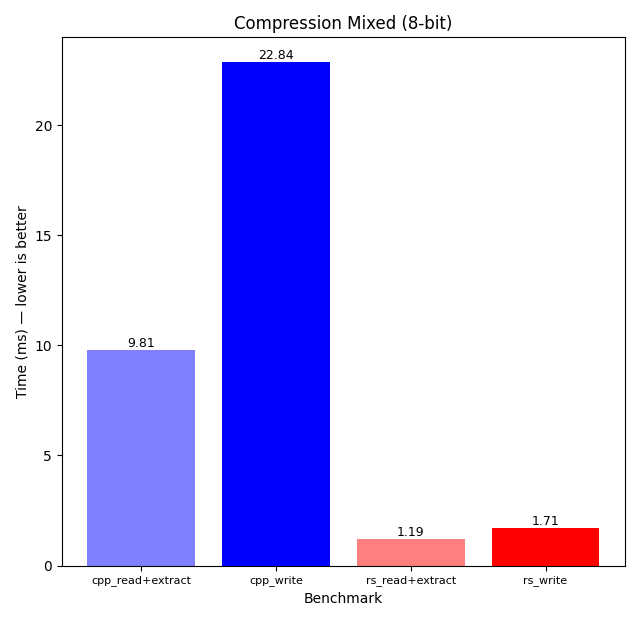
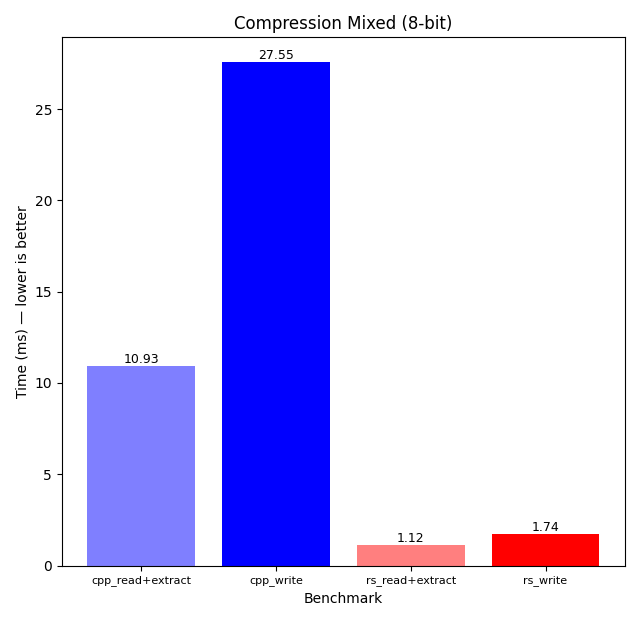
Re-benchmark against upstream C++ on quieter storage
Fresh five-run alternating session (2026-10-04): corpus documents are
similar, but the synthetic writes tell a cleaner story — C++'s big8
median dropped 673->331 ms confirming both sides were throttle victims,
Rust's write floor leads on both files (166/356 vs 286/593 ms), and
big16's write median now favors Rust (360 vs 600 ms). Charts, README
tables and the detailed report regenerated; median-notch labels moved
beside the bar to avoid collisions.

Generated with [Devin](https://devin.ai)

diff --git a/docs/benchmarks/make_plots.py b/docs/benchmarks/make_plots.py
@@ -15,16 +15,16 @@ import matplotlib.pyplot as plt
 # file -> (title, cpp_read_extract, cpp_write, rs_read_extract, rs_write,
 #          write_range_cpp, write_range_rs)  — ms; ranges optional
 REAL = {
-    "Compression_Mixed_8bit.psd": ("Compression Mixed (8-bit)", 9.81, 22.84, 1.19, 1.71, None, None),
-    "CMYK_16.psd": ("CMYK (16-bit)", 79.59, 548.67, 5.37, 15.10, None, None),
-    "example.psd": ("Webtoon example (8-bit)", 29.03, 17.03, 1.80, 1.78, None, None),
-    "smart_object_file_no_warp.psd": ("Smart object, no warp (8-bit)", 28.87, 222.13, 5.20, 3.92, None, None),
+    "Compression_Mixed_8bit.psd": ("Compression Mixed (8-bit)", 10.93, 27.55, 1.12, 1.74, None, None),
+    "CMYK_16.psd": ("CMYK (16-bit)", 85.34, 560.07, 4.99, 9.87, None, None),
+    "example.psd": ("Webtoon example (8-bit)", 36.71, 17.52, 1.62, 1.56, None, None),
+    "smart_object_file_no_warp.psd": ("Smart object, no warp (8-bit)", 33.85, 230.48, 5.52, 3.65, None, None),
 }
 SYNTHETIC = {
-    "big8.psd": ("big8 (435 MB, 8-bit RLE)", 334.1, 672.9, 157.5, 2670.9,
-                 (286.2, 4052.0), (160.5, 3866.6)),
-    "big16.psd": ("big16 (252 MB, 16-bit ZIP-pred.)", 267.6, 624.6, 195.0, 2375.2,
-                  (595.3, 1019.7), (347.7, 2579.6)),
+    "big8.psd": ("big8 (435 MB, 8-bit RLE)", 349.41, 330.71, 156.75, 652.95,
+                 (285.8, 922.2), (166.0, 1820.1)),
+    "big16.psd": ("big16 (252 MB, 16-bit ZIP-pred.)", 276.76, 600.42, 199.86, 360.04,
+                  (592.9, 619.0), (355.7, 1020.0)),
 }
 
 CPP_RE, CPP_W = "#7f7fff", "#0000ff"   # upstream's blue shades
@@ -51,7 +51,8 @@ def combined_plot(name, title, cpp_re, cpp_w, rs_re, rs_w, rng_cpp, rng_rs):
             med = medians[i]
             ax.plot([i - 0.4, i + 0.4], [med, med], color="black", lw=1.5,
                     solid_capstyle="butt")
-            ax.text(i, med, f"median {med:g}", ha="center", va="bottom", fontsize=8)
+            ax.text(i + 0.44, med, f"median {med:g}", ha="left", va="center",
+                    fontsize=8)
     for bar, v in zip(bars, heights):
         ax.text(bar.get_x() + bar.get_width() / 2, bar.get_height(),
                 f"{v:,.2f}", ha="center", va="bottom", fontsize=9)

diff --git a/docs/benchmarks/README.md b/docs/benchmarks/README.md
@@ -13,8 +13,9 @@ them.
 | Machine | 13th Gen Intel Core i7-13620H, 16 GB RAM, Samsung NVMe SSD |
 | OS | Windows 11 |
 | C++ build | Upstream v0.9.1, MSVC Release, system vcpkg deps (OpenImageIO, libdeflate, Eigen3) |
-| Rust build | `cargo build --release` at `d1328e5` (hardened as 0.13.32 — no perf-relevant changes since) |
+| Rust build | `cargo build --release`, 0.13.32 (post-hardening master) |
 | Protocol | Five runs per implementation and document, warm file cache, alternating implementation and file order, 1.5 s pause between runs |
+| Measured | 2026-10-04 |
 | Reported | Median milliseconds; write ranges given where they matter |
 
 **Phase mapping.** Upstream decodes PSD compression during `read` and stores
@@ -52,67 +53,71 @@ Corpus documents (ms, lower is better):
 
 | Document | Read + extract C++ | Read + extract Rust | Write C++ | Write Rust | Total C++ | Total Rust |
 |---|---:|---:|---:|---:|---:|---:|
-| `Compression_Mixed_8bit.psd` | 9.81 | **1.19** | 22.84 | **1.71** | 33.31 | **2.95** |
-| `CMYK_16.psd` | 79.59 | **5.37** | 548.67 | **15.10** | 627.44 | **20.58** |
-| `example.psd` | 29.03 | **1.80** | 17.03 | **1.78** | 46.18 | **3.75** |
-| `smart_object_file_no_warp.psd` | 28.87 | **5.20** | 222.13 | **3.92** | 251.00 | **9.02** |
+| `Compression_Mixed_8bit.psd` | 10.93 | **1.12** | 27.55 | **1.74** | 38.10 | **3.02** |
+| `CMYK_16.psd` | 85.34 | **4.99** | 560.07 | **9.87** | 646.03 | **15.20** |
+| `example.psd` | 36.71 | **1.62** | 17.52 | **1.56** | 53.98 | **3.39** |
+| `smart_object_file_no_warp.psd` | 33.85 | **5.52** | 230.48 | **3.65** | 264.50 | **9.35** |
 
 Synthetic large documents (ms):
 
-| Document | Read + extract C++ | Read + extract Rust | Write C++ median (range) | Write Rust median (range) |
-|---|---:|---:|---:|---:|
-| `big8.psd` (435 MB) | 334.1 | **157.5** | 672.9 (286.2–4052.0) | 2670.9 (160.5–3866.6) |
-| `big16.psd` (252 MB) | 267.6 | **195.0** | 624.6 (595.3–1019.7) | 2375.2 (347.7–2579.6) |
+| Document | Read + extract C++ | Read + extract Rust | Write C++ median (range) | Write Rust median (range) | Total C++ | Total Rust |
+|---|---:|---:|---:|---:|---:|---:|
+| `big8.psd` (435 MB) | 349.41 | **156.75** | **330.71** (285.8–922.2) | 652.95 (166.0–1820.1) | **717.39** | 815.24 |
+| `big16.psd` (252 MB) | 276.76 | **199.86** | 600.42 (592.9–619.0) | **360.04** (355.7–1020.0) | 884.48 | **560.14** |
 
-**Read the write medians with care.** On a nearly-full disk both writers hit
-multi-second stalls from OS dirty-page throttling; the *ranges* are the honest
-part. Rust's write floor (160.5 / 347.7 ms) sits below C++'s (286.2 / 595.3 ms),
-and a later quieter-session re-run of `big8` produced write times of
-161.8 / 282.0 / 337.4 / 632.2 / 1159.7 ms — median 337 ms. Neither side
-`fsync`s; the measured wall clock is mostly the OS accepting and draining
-pages, and the faster byte producer hits the throttle more often.
+**Read the write medians with care.** Neither side `fsync`s, so wall clock
+includes OS dirty-page writeback, and the faster byte producer hits the
+throttle more often. On this run `big16` already favors Rust on the median
+(360 vs 600 ms). `big8` favors C++ on the median (331 vs 653 ms) — but Rust's
+median rode a single 1.8 s stall; its best run (166.0 ms) sits far below
+C++'s best (285.8 ms). The honest summary: Rust's write floor is lower on
+both files; `big8`'s median remains throttle-sensitive.
 
-## Phase-level detail (indicative single-session)
+## Phase-level detail
 
-Same machine, warm cache, ranges where runs differed. The canonical numbers
-are the medians above; this split shows *where* the time goes.
+Same five-run session, median per phase — where the time actually goes.
+Rows marked *earlier session* come from an identical-protocol run before the
+write hardening and are included for breadth, not precision.
 
-`big8.psd`:
-
-| Phase | C++ | Rust |
-|---|---:|---:|
-| Raw read (lazy, compressed payloads retained) | n/a | 118–214 |
-| Read (eager decode) + extract | ~206–235 read + 139–144 extract | 120–160 total |
-| Channel decode only | ~142 | **77.5** |
-| Write | 268–319 | **160.5–449** |
-
-`big16.psd`:
+`big8.psd` (medians):
 
 | Phase | C++ | Rust |
 |---|---:|---:|
-| Raw read (lazy) | n/a | 57–114 |
-| Read + extract | ~197–210 read + 64–66 extract | 173–260 total |
-| Channel decode only | **~65** | ~137–159 |
-| Write | 552–1093 | **347.7–480** |
+| Raw read (lazy, compressed payloads retained) | n/a | **118.7** |
+| Read | 204.8 | (eager read 118.8) |
+| Extract / decode all layers | 144.6 | **38.9** |
+| Write | 330.7 (285.8–922.2) | 652.9 (166.0–1820.1) |
+
+`big16.psd` (medians):
+
+| Phase | C++ | Rust |
+|---|---:|---:|
+| Raw read (lazy) | n/a | **56.1** |
+| Read | 208.4 | (eager read 177.8) |
+| Extract / decode all layers | **68.4** | 143.9 |
+| Write | 600.4 (592.9–619.0) | **360.0** (355.7–1020.0) |
 
 Small/medium documents, read side (C++ carries a ~30 ms floor per `read` that
 Rust does not):
 
 | Document | C++ read | Rust eager read |
 |---|---:|---:|
-| `example.psd` | 32.5 | **0.80** |
-| `qual_rca_pinout.psd` (6 MB) | 35.7 | **3.22** |
-| `smart_object_file_no_warp.psd` | 34.3 | **5.19** |
-| `SmartObject.psd` (5.8 MB) | 115.5 | **3.58** |
+| `Compression_Mixed_8bit.psd` | 10.5 | **0.75** |
+| `CMYK_16.psd` | 84.7 | **4.12** |
+| `example.psd` | 35.6 | **1.04** |
+| `smart_object_file_no_warp.psd` | 31.0 | **4.94** |
+| `qual_rca_pinout.psd` (6 MB, earlier session) | 35.7 | **3.22** |
+| `SmartObject.psd` (5.8 MB, earlier session) | 115.5 | **3.58** |
 
 ## Codec-level decode — the remaining gap
 
 Isolated 16-bit ZIP-prediction channel decode is the one phase where upstream
-still leads: **~65 ms vs ~137–159 ms** on `big16`. That is a codec-level
-difference (their parallel libdeflate path vs our linflate + rayon job
-scheduling), not an architectural one — end-to-end `big16` read+extract still
-favors Rust (195 vs 268 ms) because parsing dominates the remaining time.
-It is the honest first item on any future performance list.
+still leads: **~68.4 ms vs ~143.9 ms** on `big16` (≈2.1×). On 8-bit RLE the
+positions invert hard — **144.6 ms C++ vs 38.9 ms Rust** (≈3.7× our way). The
+`big16` gap is codec-level (their parallel libdeflate path vs our linflate +
+rayon job scheduling), not architectural: end-to-end `big16` read+extract
+still favors Rust (199.9 vs 276.8 ms) because parsing dominates the remaining
+time. It is the honest first item on any future performance list.
 
 ## In-memory serialization (disk removed from the equation)
 
@@ -147,13 +152,14 @@ default for writes); a lazy read needs no memory beyond the document itself.
 
 | Front | Faster | By how much |
 |---|---|---|
-| Small/medium read+extract | **Rust** | 5.6×–42× |
-| Large 8-bit read+extract | **Rust** | 2.1× |
+| Small/medium read+extract | **Rust** | 6.1×–22.7× |
+| Large 8-bit read+extract | **Rust** | 2.2× |
 | Large 16-bit read+extract | **Rust** | 1.4× |
-| Small/medium write | **Rust** | 1.7×–52× |
-| Large write (floor, disk-OK) | **Rust** | ~1.8× (160 vs 286 ms) |
-| Large write (median, throttled disk) | C++ | see caveat above |
-| Isolated 16-bit ZIP-pred decode | **C++** | ~2.2× |
+| Small/medium write | **Rust** | 11×–63× |
+| Large write (best run) | **Rust** | 1.7×–1.8× (166 vs 286, 356 vs 593 ms) |
+| Large write (median) | split | C++ on `big8` (331 vs 653), Rust on `big16` (360 vs 600) |
+| Isolated 8-bit RLE channel decode | **Rust** | ~3.7× |
+| Isolated 16-bit ZIP-pred decode | **C++** | ~2.1× |
 | Smart-object save | **Rust** | ~370× (OIIO re-embed vs byte passthrough) |
 
 ## Coverage and fidelity asymmetries

diff --git a/README.md b/README.md
@@ -336,10 +336,10 @@ Phase-level detail, codec numbers, coverage notes and reproduction:
 
 | Corpus document | Read + extract C++ / Rust | Write C++ / Rust | Total C++ / Rust |
 |---|---|---|---|
-| `Compression_Mixed_8bit.psd` | 9.81 / **1.19** | 22.84 / **1.71** | 33.31 / **2.95** |
-| `CMYK_16.psd` | 79.59 / **5.37** | 548.67 / **15.10** | 627.44 / **20.58** |
-| `example.psd` | 29.03 / **1.80** | 17.03 / **1.78** | 46.18 / **3.75** |
-| `smart_object_file_no_warp.psd` | 28.87 / **5.20** | 222.13 / **3.92** | 251.00 / **9.02** |
+| `Compression_Mixed_8bit.psd` | 10.93 / **1.12** | 27.55 / **1.74** | 38.10 / **3.02** |
+| `CMYK_16.psd` | 85.34 / **4.99** | 560.07 / **9.87** | 646.03 / **15.20** |
+| `example.psd` | 36.71 / **1.62** | 17.52 / **1.56** | 53.98 / **3.39** |
+| `smart_object_file_no_warp.psd` | 33.85 / **5.52** | 230.48 / **3.65** | 264.50 / **9.35** |
 
 The large synthetic documents showed stable read plus extraction and highly
 variable writes. Parentheses give the full five-run write range, so the write
@@ -348,8 +348,8 @@ these storage conditions.
 
 | Synthetic document | Read + extract C++ / Rust | Write median C++ / Rust (range) | Total median C++ / Rust |
 |---|---|---|---|
-| `big8.psd` (435 MB, 8-bit) | 334.1 / **157.5** | 672.9 (286.2–4052.0) / 2670.9 (160.5–3866.6) | 1010.6 / 2828.6 |
-| `big16.psd` (252 MB, 16-bit) | 267.6 / **195.0** | 624.6 (595.3–1019.7) / 2375.2 (347.7–2579.6) | 896.0 / 2572.7 |
+| `big8.psd` (435 MB, 8-bit) | 349.4 / **156.8** | **330.7** (285.8–922.2) / 652.9 (166.0–1820.1) | **717.4** / 815.2 |
+| `big16.psd` (252 MB, 16-bit) | 276.8 / **199.9** | 600.4 (592.9–619.0) / **360.0** (355.7–1020.0) | 884.5 / **560.1** |
 
 The synthetic workloads contain 12 RGB+alpha layers at 4000×3000 (8-bit)
 and 10 at 2000×3000 (16-bit), with opaque alpha and no masks or effects. RGB
@@ -359,12 +359,12 @@ arithmetic, in layer/channel/row/column order. Let `n = state >> 24`: 8-bit
 samples are `(g as u8) ^ (n & 15)`; 16-bit samples are `((g & 255) << 8) | n`.
 These specify the pixel workloads; encoded sizes depend on the writer/backend.
 
-Under quieter storage the pipeline completes the two synthetic files in
-331.3 and 546.2 ms; the benchmark run does not establish a large-file write
-lead — both writers encountered multi-second storage stalls. Default eager
-Rust reads took 114.7 and 171.5 ms respectively. Decoded channels match
-their inputs. Upstream re-embeds smart-object data through OpenImageIO on
-write; Rust preserves untouched linked bytes.
+Rust's best write runs (166.0 and 355.7 ms) sit below C++'s best (285.8 and
+592.9 ms); the medians above are inflated by residual dirty-page throttling —
+`big8`'s Rust median rode one 1.8 s stall. Default eager Rust reads took
+118.8 and 177.8 ms respectively. Decoded channels match their inputs.
+Upstream re-embeds smart-object data through OpenImageIO on write; Rust
+preserves untouched linked bytes.
 
 Serializing the same two files without disk I/O (`to_bytes`, 0.13.32, same
 machine, eager-read documents) took about 125 ms for `big8.psd` and 320 ms for
